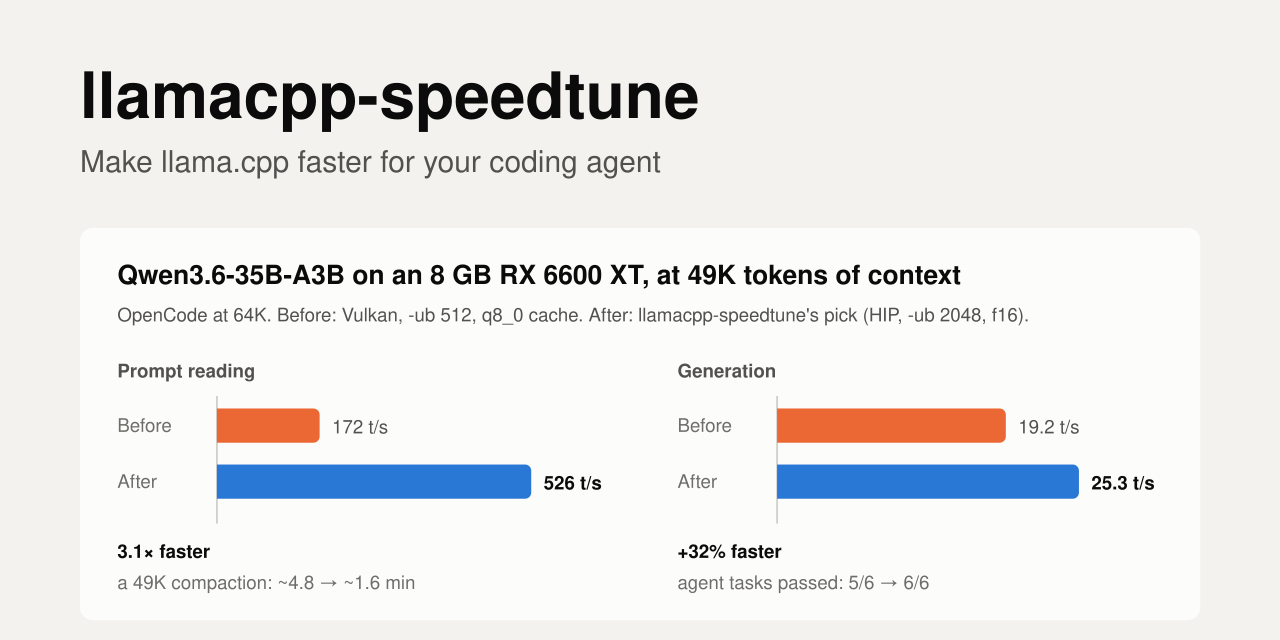
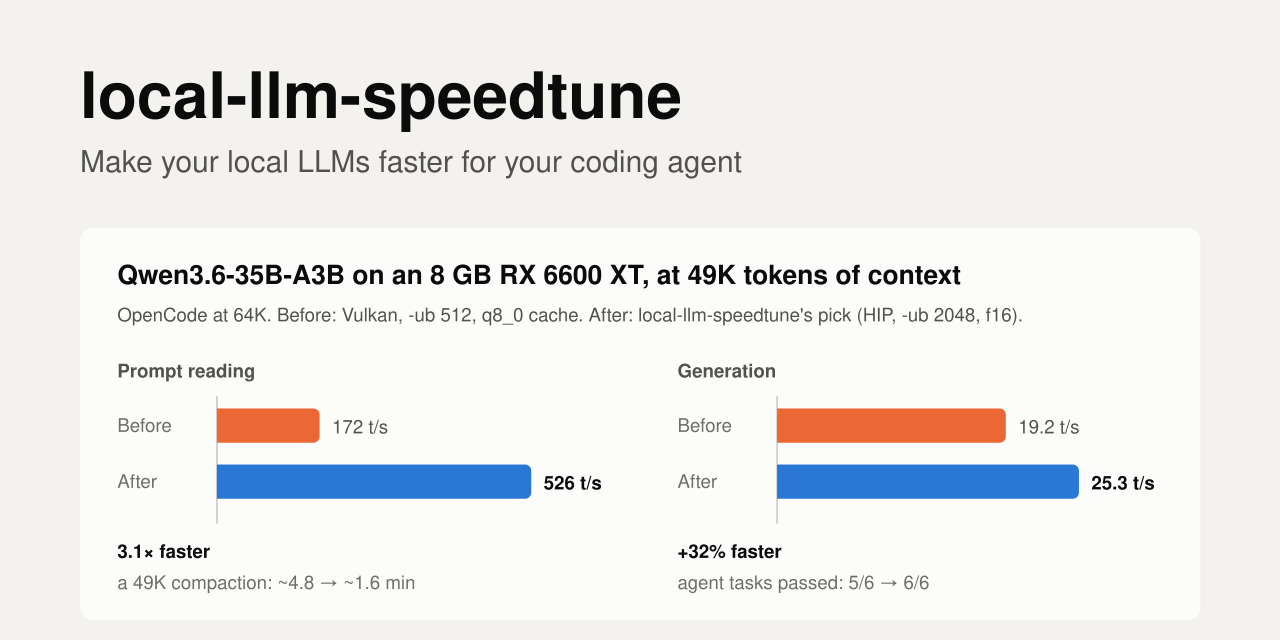
Rename to local-llm-speedtune: the skill now picks the engine, not only llama.cpp flags

Changed region(s): [[0.0625, 0.0938, 0.5938, 0.2812], [0.5, 0.4688, 0.8125, 0.5312]]

diff --git a/scripts/profiles.py b/scripts/profiles.py
@@ -14,7 +14,7 @@ serve-config writes what serves all profiled models behind one address:
         - otherwise (several engines or binaries): llama-swap.yaml, which starts the right engine
           for each model on request (https://github.com/mostlygeek/llama-swap)
         Both files are only written to DIR; installing them is a separate, approved step.
-profiles_dir comes from the config (default ~/.config/llamacpp-speedtune/profiles).
+profiles_dir comes from the config (default ~/.config/local-llm-speedtune/profiles).
 """
 import argparse
 import csv
@@ -30,7 +30,7 @@ sys.path.insert(0, str(Path(__file__).resolve().parent))
 import hw  # noqa: E402
 from quick_check import parse_cmdline, to_cli  # noqa: E402
 
-DEFAULT_DIR = "~/.config/llamacpp-speedtune/profiles"
+DEFAULT_DIR = "~/.config/local-llm-speedtune/profiles"
 
 
 def load_config():
@@ -130,7 +130,7 @@ def _pairs(args):
 
 
 def presets_ini(profiles):
-    lines = ["version = 1", "; Generated by llamacpp-speedtune profiles.py from the saved profiles.", ""]
+    lines = ["version = 1", "; Generated by local-llm-speedtune profiles.py from the saved profiles.", ""]
     for p in profiles:
         lines += [f"[{p['alias'].replace(':', '-')}]", f"model = {Path(p['model_file']).expanduser()}"]
         if p.get("mmproj") and "mmproj" not in p["args"]:
@@ -144,7 +144,7 @@ def presets_ini(profiles):
 
 def llama_swap_yaml(profiles):
     """llama-swap config: one entry per model; ${PORT} is filled in by llama-swap."""
-    lines = ["# Generated by llamacpp-speedtune profiles.py. llama-swap starts the right engine per model.",
+    lines = ["# Generated by local-llm-speedtune profiles.py. llama-swap starts the right engine per model.",
              "# Check the format against your llama-swap version's README before installing.", "models:"]
     for p in profiles:
         if p["engine"] == "llama.cpp":

diff --git a/scripts/bench_agentic.py b/scripts/bench_agentic.py
@@ -37,7 +37,7 @@ def opencode_config(alias, ctx, tmp):
     path.write_text(json.dumps({
         "$schema": "https://opencode.ai/config.json",
         "providers": {"bench": {
-            "name": "llamacpp-speedtune test server",
+            "name": "local-llm-speedtune test server",
             "package": "@opencode/ai/providers/openai-compatible",
             "settings": {"baseURL": f"http://127.0.0.1:{PORT}/v1",
                          "apiKey": f"{{env:{key_env}}}" if key_env else "none"},
@@ -86,7 +86,7 @@ def run_task(task, alias, ctx, keep_dir):
     run, summarize = ADAPTERS[CFG.get("agent", {}).get("type", "opencode")]
     # Agents search outside their folder when asked to change things "everywhere", so the
     # project lives alone in a fresh temp dir, away from the template and earlier runs.
-    tmp = Path(tempfile.mkdtemp(prefix="llamacpp-speedtune-"))
+    tmp = Path(tempfile.mkdtemp(prefix="local-llm-speedtune-"))
     workdir = tmp / "shop-project"
     shutil.copytree(AGENTIC / "template", workdir, ignore=shutil.ignore_patterns(".git", "__pycache__"))
     subprocess.run(["chmod", "-R", "u+w", workdir], check=True)

diff --git a/scripts/run_phase.py b/scripts/run_phase.py
@@ -24,7 +24,7 @@ from pathlib import Path
 sys.path.insert(0, str(Path(__file__).resolve().parent))
 from run_state import default_state_path, granted, locked, notify, now, reset_stale, summary  # noqa: E402
 
-INHIBITED = "LLAMACPP_SPEEDTUNE_INHIBITED"
+INHIBITED = "LOCAL_LLM_SPEEDTUNE_INHIBITED"
 
 
 def keep_awake(argv):
@@ -33,7 +33,7 @@ def keep_awake(argv):
         return None
     env = {**os.environ, INHIBITED: "1"}
     if shutil.which("systemd-inhibit"):
-        cmd = ["systemd-inhibit", "--what=sleep:idle", "--who=llamacpp-speedtune",
+        cmd = ["systemd-inhibit", "--what=sleep:idle", "--who=local-llm-speedtune",
                "--why=benchmarking local models", sys.executable, *argv]
     elif shutil.which("caffeinate"):
         cmd = ["caffeinate", "-i", "-s", sys.executable, *argv]

diff --git a/scripts/init_config.py b/scripts/init_config.py
@@ -131,7 +131,7 @@ def build_config(servers, models, override):
         "results_dir": "results",
         "api_key_env": "LLAMA_API_KEY",
         "router_url": None,
-        "profiles_dir": "~/.config/llamacpp-speedtune/profiles",
+        "profiles_dir": "~/.config/local-llm-speedtune/profiles",
         "backends": backends,
         "engines": {},
         "models": models,

diff --git a/scripts/run_state.py b/scripts/run_state.py
@@ -93,7 +93,7 @@ def summary(state, clock=None):
 
 
 def notify(msg):
-    title = "llamacpp-speedtune"
+    title = "local-llm-speedtune"
     try:
         if platform.system() == "Darwin" and shutil.which("osascript"):
             subprocess.run(["osascript", "-e", f'display notification {json.dumps(msg)} with title "{title}"'],

diff --git a/README.md b/README.md
@@ -1,4 +1,4 @@
-# llamacpp-speedtune
+# local-llm-speedtune
 
 **Make your local LLMs as fast as your hardware allows, for your coding agent.** An agent skill that has your coding agent (Claude Code, OpenCode, Codex, …) pick the best **engine**, then the best **backend**, then the best **flags** for *your* hardware, measured at the context depths agents really use and checked on real agent tasks. It asks its questions up front, tells you when it'll be done, and runs while you're away.
 
@@ -13,7 +13,7 @@ Most tuning advice is measured on an empty context with one short prompt. Coding
 No setup, no benchmarks, nothing changed. It reads your current settings and points out likely speed left on the table:
 
 ```bash
-git clone https://github.com/cliffkoome/llamacpp-speedtune && cd llamacpp-speedtune/scripts
+git clone https://github.com/cliffkoome/local-llm-speedtune && cd local-llm-speedtune/scripts
 ./quick_check.py --router http://127.0.0.1:8080          # a llama-server router (key from $LLAMA_API_KEY)
 ./quick_check.py --preset ~/models/presets.ini           # or a presets file
 ./quick_check.py --args "-m model.gguf -c 32768 -ngl 99"  # or one command line
@@ -34,8 +34,8 @@ The findings are rules of thumb. A tune measures what they're really worth on yo
 Paste this into your coding agent. It installs the skill and runs everything itself:
 
 ```text
-Install the agent skill from https://github.com/cliffkoome/llamacpp-speedtune (clone it into your skills folder, or into
-~/llamacpp-speedtune and read its SKILL.md if you don't support skills). Then use it to tune my local models.
+Install the agent skill from https://github.com/cliffkoome/local-llm-speedtune (clone it into your skills folder, or into
+~/local-llm-speedtune and read its SKILL.md if you don't support skills). Then use it to tune my local models.
 Check my hardware first, then ask me all your questions in one go and tell me when it will be done.
 After that, run it unattended to the end. Don't change my live server or agent config until I'm back and say yes.
 ```
@@ -48,7 +48,7 @@ After that, run it unattended to the end. Don't change my live server or agent c
 2. **One round of questions**, with what it found filled in: what you use the models for, which models (it lists them for you to confirm, and can suggest some that suit your hardware), context size, one user or several (with a warning in numbers if several won't fit), what matters most, how long you can be away, and **what it may do while you're away** (build backends, install engines, download up to N GB, stop your model server, keep the computer awake). Reply "all defaults" to most of them.
 3. **A plan with a finish time**, e.g. *"3 models, about 1 h 40 min, done around 21:40"*, what's busy, and what was skipped for lack of permission. Then you can leave.
 4. **The unattended run**, in phases: baseline (your current config, measured first) → engine → backend → flags → agent tasks. It resumes where it stopped if interrupted, never uses sudo, and never changes your live config while you're away.
-5. **Results:** before/after for every model, each model's best config saved as a **profile** (`~/.config/llamacpp-speedtune/profiles/`), and one endpoint for all of them (router presets, or llama-swap if models ended up on different engines). You get a notification when it's done. The new config is applied when you're back and say yes.
+5. **Results:** before/after for every model, each model's best config saved as a **profile** (`~/.config/local-llm-speedtune/profiles/`), and one endpoint for all of them (router presets, or llama-swap if models ended up on different engines). You get a notification when it's done. The new config is applied when you're back and say yes.
 
 ## Three modes
 
@@ -81,16 +81,16 @@ That's 3× faster prompt reading (a 49K compaction drops from ~4.8 to ~1.6 minut
 
 Configs from other machines: [`community/`](community/README.md). Find hardware like yours and start from its flags.
 
-**Ran a tune? [Share your results](https://github.com/cliffkoome/llamacpp-speedtune/issues/new?template=share-results.yml)**. It's a short form, and your agent can fill it in from its results file. NVIDIA, Apple and Intel results are especially welcome: those paths haven't been run end to end yet.
+**Ran a tune? [Share your results](https://github.com/cliffkoome/local-llm-speedtune/issues/new?template=share-results.yml)**. It's a short form, and your agent can fill it in from its results file. NVIDIA, Apple and Intel results are especially welcome: those paths haven't been run end to end yet.
 
 ## Install
 
 As a skill (Claude Code, OpenCode and other agents that read `SKILL.md`):
 ```bash
-npx skills add cliffkoome/llamacpp-speedtune
+npx skills add cliffkoome/local-llm-speedtune
 # or manually
-git clone https://github.com/cliffkoome/llamacpp-speedtune ~/.agents/skills/llamacpp-speedtune
-ln -s ~/.agents/skills/llamacpp-speedtune ~/.claude/skills/llamacpp-speedtune   # Claude Code
+git clone https://github.com/cliffkoome/local-llm-speedtune ~/.agents/skills/local-llm-speedtune
+ln -s ~/.agents/skills/local-llm-speedtune ~/.claude/skills/local-llm-speedtune   # Claude Code
 ```
 Then ask your agent: *"Tune my local models for OpenCode"*, or use a ready-made prompt from [`PROMPTS.md`](PROMPTS.md) (2-minute check, full tune, re-check after an update, add one model, diagnose a slow model, measure only).
 

diff --git a/PROMPTS.md b/PROMPTS.md
@@ -1,29 +1,29 @@
 # Prompts
 
-Copy one into your coding agent (Claude Code, OpenCode, Codex, …) with this skill installed. Replace the parts in `<angle brackets>`. Without skill support, start with: *"Read SKILL.md in <path to llamacpp-speedtune> and follow it."*
+Copy one into your coding agent (Claude Code, OpenCode, Codex, …) with this skill installed. Replace the parts in `<angle brackets>`. Without skill support, start with: *"Read SKILL.md in <path to local-llm-speedtune> and follow it."*
 
 ## Install and run everything (one prompt)
 ```text
-Install the agent skill from https://github.com/cliffkoome/llamacpp-speedtune (clone it into your skills folder, or into
-~/llamacpp-speedtune and read its SKILL.md if you don't support skills). Then use it to tune my local models.
+Install the agent skill from https://github.com/cliffkoome/local-llm-speedtune (clone it into your skills folder, or into
+~/local-llm-speedtune and read its SKILL.md if you don't support skills). Then use it to tune my local models.
 Check my hardware first, then ask me all your questions in one go and tell me when it will be done.
 After that, run it unattended to the end. Don't change my live server or agent config until I'm back and say yes.
 ```
 
 ## 2-minute check (no benchmarks, changes nothing)
 ```text
-Use llamacpp-speedtune to do the 2-minute check of my current setup: <my llama-server router at http://127.0.0.1:8080 |
+Use local-llm-speedtune to do the 2-minute check of my current setup: <my llama-server router at http://127.0.0.1:8080 |
 my presets file ~/models/presets.ini | my Ollama models>. Tell me what's likely slowing my models down and whether a quick tune is worth it.
 ```
 
 ## Quick tune (about an hour)
 ```text
-Use llamacpp-speedtune to do a quick tune of my local models for <OpenCode>. Tell me the time estimate first.
+Use local-llm-speedtune to do a quick tune of my local models for <OpenCode>. Tell me the time estimate first.
 ```
 
 ## Comprehensive tune (several hours; best overnight)
 ```text
-Use the llamacpp-speedtune skill to do a comprehensive tune of my local models for <OpenCode / Claude Code / my agent> on this machine.
+Use the local-llm-speedtune skill to do a comprehensive tune of my local models for <OpenCode / Claude Code / my agent> on this machine.
 - Models: <all GGUFs in ~/models | just these: ...>
 - Main use: <agentic coding at 64K context>. Secondary: <chat, long documents, vision>.
 - Priority: <fastest at full context | most context that still fits | balance>.
@@ -33,27 +33,27 @@ Ask me before using sudo, restarting services or changing my agent config. Repor
 
 ## Quick re-check (after a llama.cpp, driver or kernel update)
 ```text
-Use llamacpp-speedtune to re-check my current config after an update. Don't redo every sweep:
+Use local-llm-speedtune to re-check my current config after an update. Don't redo every sweep:
 rebuild/compare the backends from the same commit, rerun the winning config and the runner-up for each model at my agent's depths,
 and tell me if anything got slower, faster, or stopped fitting. Compare against <path to my last results file>.
 ```
 
 ## Add one new model
 ```text
-Use llamacpp-speedtune to add <path/to/model.gguf> to my setup. Check it fits, compare backends, sweep its batch size, cache type
+Use local-llm-speedtune to add <path/to/model.gguf> to my setup. Check it fits, compare backends, sweep its batch size, cache type
 (and --n-cpu-moe if it's MoE) at <64K> context, then prepare a preset for my router and an entry for my agent config.
 Show me the changes before applying them.
 ```
 
 ## Diagnose a slow model
 ```text
-<Model> got slow / is slower than expected on my machine. Use llamacpp-speedtune to find out why: check RAM speed and channels,
+<Model> got slow / is slower than expected on my machine. Use local-llm-speedtune to find out why: check RAM speed and channels,
 PCIe link, VRAM use by other apps, spills to system RAM, thread count, and whether its config still fits at full context.
 Tell me the cause before changing anything.
 ```
 
 ## Only measure, change nothing
 ```text
-Use llamacpp-speedtune to benchmark my models at my agent's real context depths and give me a report.
+Use local-llm-speedtune to benchmark my models at my agent's real context depths and give me a report.
 Don't change any config, service or file outside the results folder.
 ```

diff --git a/SKILL.md b/SKILL.md
@@ -1,9 +1,9 @@
 ---
-name: llamacpp-speedtune
+name: local-llm-speedtune
 description: Make the user's local LLMs run as fast as their hardware allows, measured the way their coding agent uses them. Picks the best engine (llama.cpp by default; challengers such as ExLlama, MLX, ik_llama.cpp or OpenVINO only where the hardware suits them), then the best backend (CUDA, HIP/ROCm, Vulkan, Metal), then the best flags (batch sizes, KV cache, MoE expert offload, threads, speculative decoding), at the context depths agents really reach, confirmed in a real server and on real agent tasks. Asks all its questions up front, then runs unattended with a finish time, resumes if interrupted, and saves each model's best config as a profile behind one endpoint. Also has a 2-minute no-benchmark check (llama-server or Ollama) and Ollama export. Use when the user wants to speed up, benchmark, tune or optimise local models, pick an engine or backend, check their llama-server or Ollama settings, or set up one endpoint for several local models.
 ---
 
-# llamacpp-speedtune
+# local-llm-speedtune
 
 You're tuning the user's local models on their own hardware: **engine first, then backend, then flags**. The goal is the fastest **working** config for each model under the user's real workload, usually a coding agent. Every claim must come from a measurement on this machine. Defaults, online advice and other people's numbers are starting points only.
 

diff --git a/references/intake.md b/references/intake.md
@@ -65,7 +65,7 @@ Ask **once**, after the inventory, in one message, with what you detected filled
 1. The **before/after table** for each model (`before_after.py`), then the change set waiting for approval and how to undo it.
 2. One neutral invitation, never repeated:
    > If you'd like to help others with similar hardware, you can share your results, good or bad:
-   > - the GitHub results form (I can fill it in for you to check): https://github.com/cliffkoome/llamacpp-speedtune/issues/new?template=share-results.yml
+   > - the GitHub results form (I can fill it in for you to check): https://github.com/cliffkoome/local-llm-speedtune/issues/new?template=share-results.yml
    > - or a comment, in your own words, under the write-up on DEV: https://dev.to/megalodon/i-let-my-coding-agent-tune-its-own-local-llm-3x-faster-prompts-on-an-8-gb-amd-gpu-8eo
    > - and a ⭐ on the repo if it helped.
 

diff --git a/community/README.md b/community/README.md
@@ -2,7 +2,7 @@
 
 Tuned configs from real machines. Find hardware like yours and start from its flags, then confirm on your machine with a quick tune: drivers, RAM speed and the PCIe link change the numbers.
 
-**Add yours:** [open a "Share your results" issue](https://github.com/cliffkoome/llamacpp-speedtune/issues/new?template=share-results.yml). If an agent ran the tune, ask it to fill the form in from your results file. Rows are added from those issues.
+**Add yours:** [open a "Share your results" issue](https://github.com/cliffkoome/local-llm-speedtune/issues/new?template=share-results.yml). If an agent ran the tune, ask it to fill the form in from your results file. Rows are added from those issues.
 
 Speeds are tokens/s, before → after, measured at the depth shown.
 
